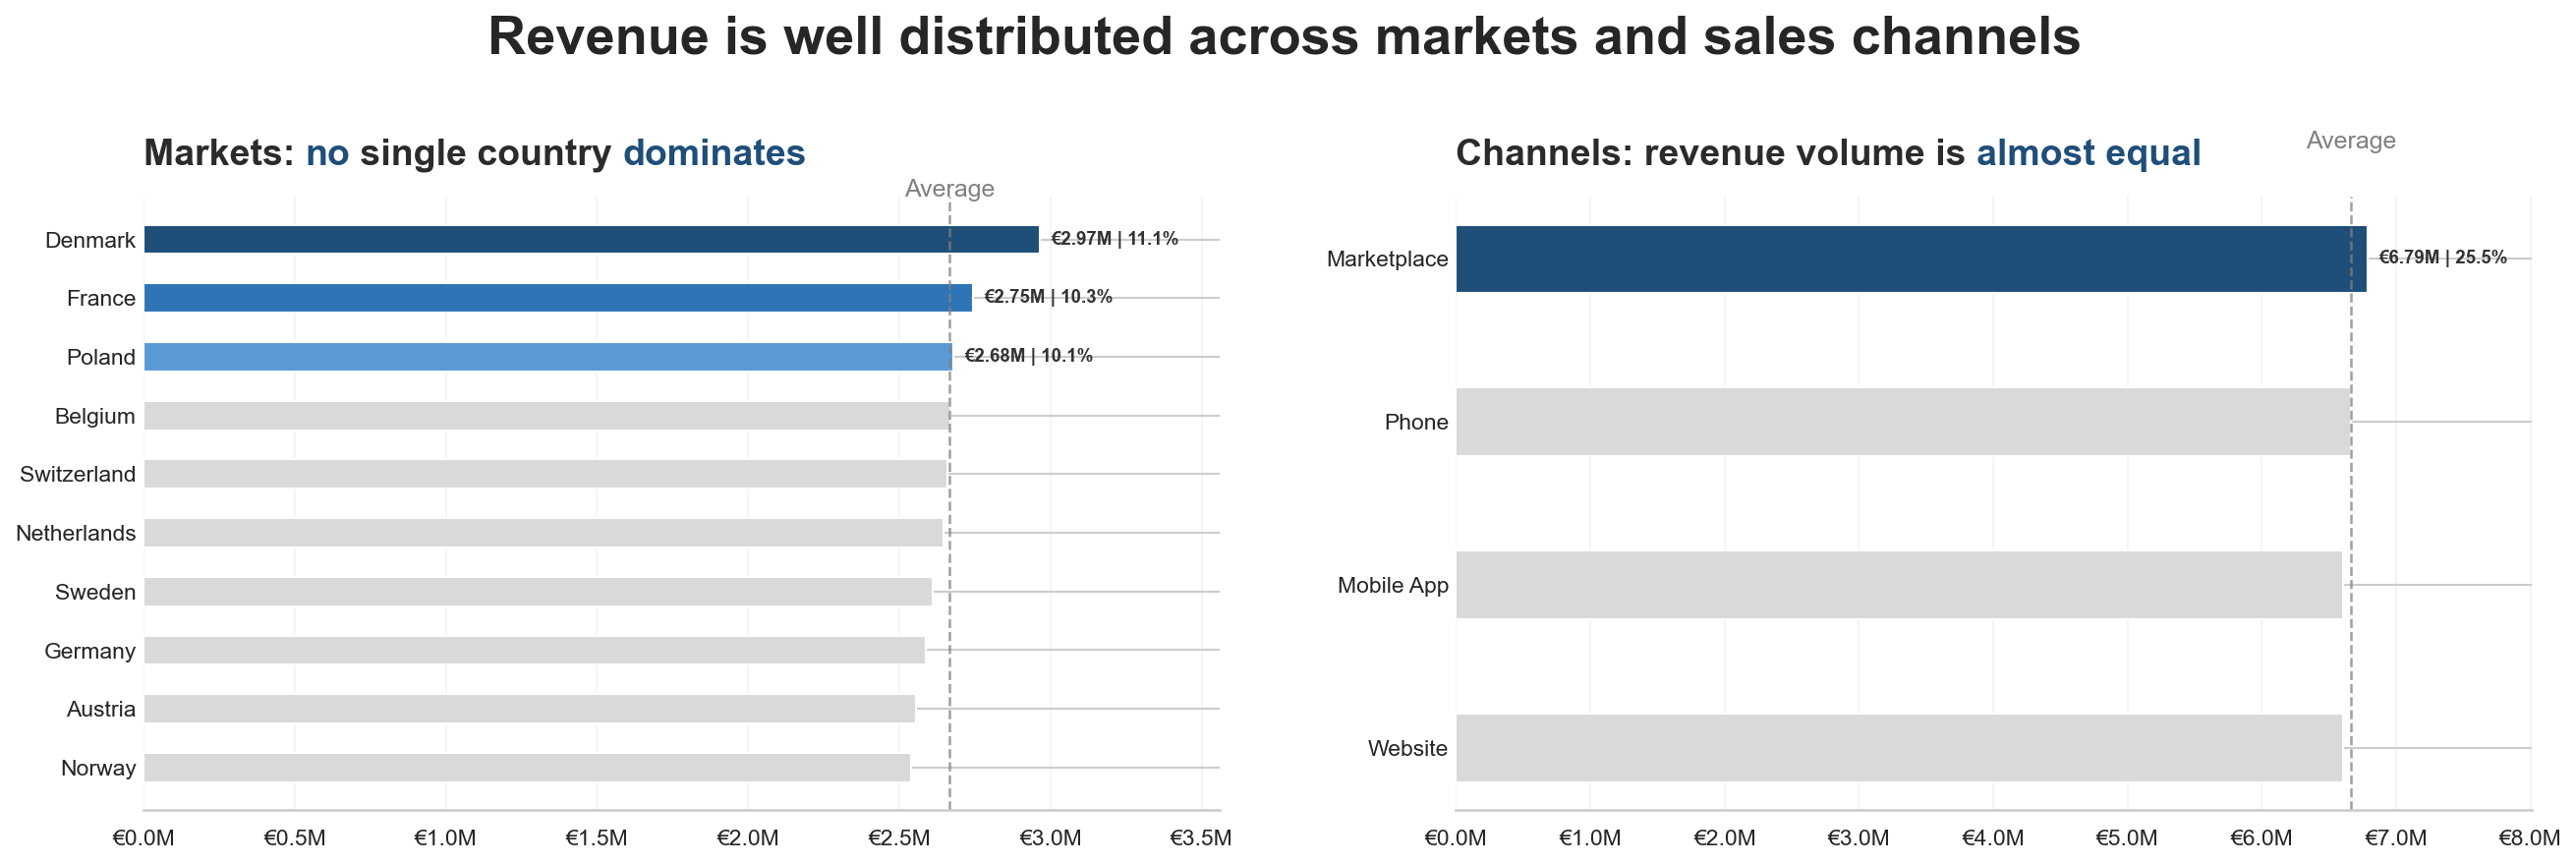
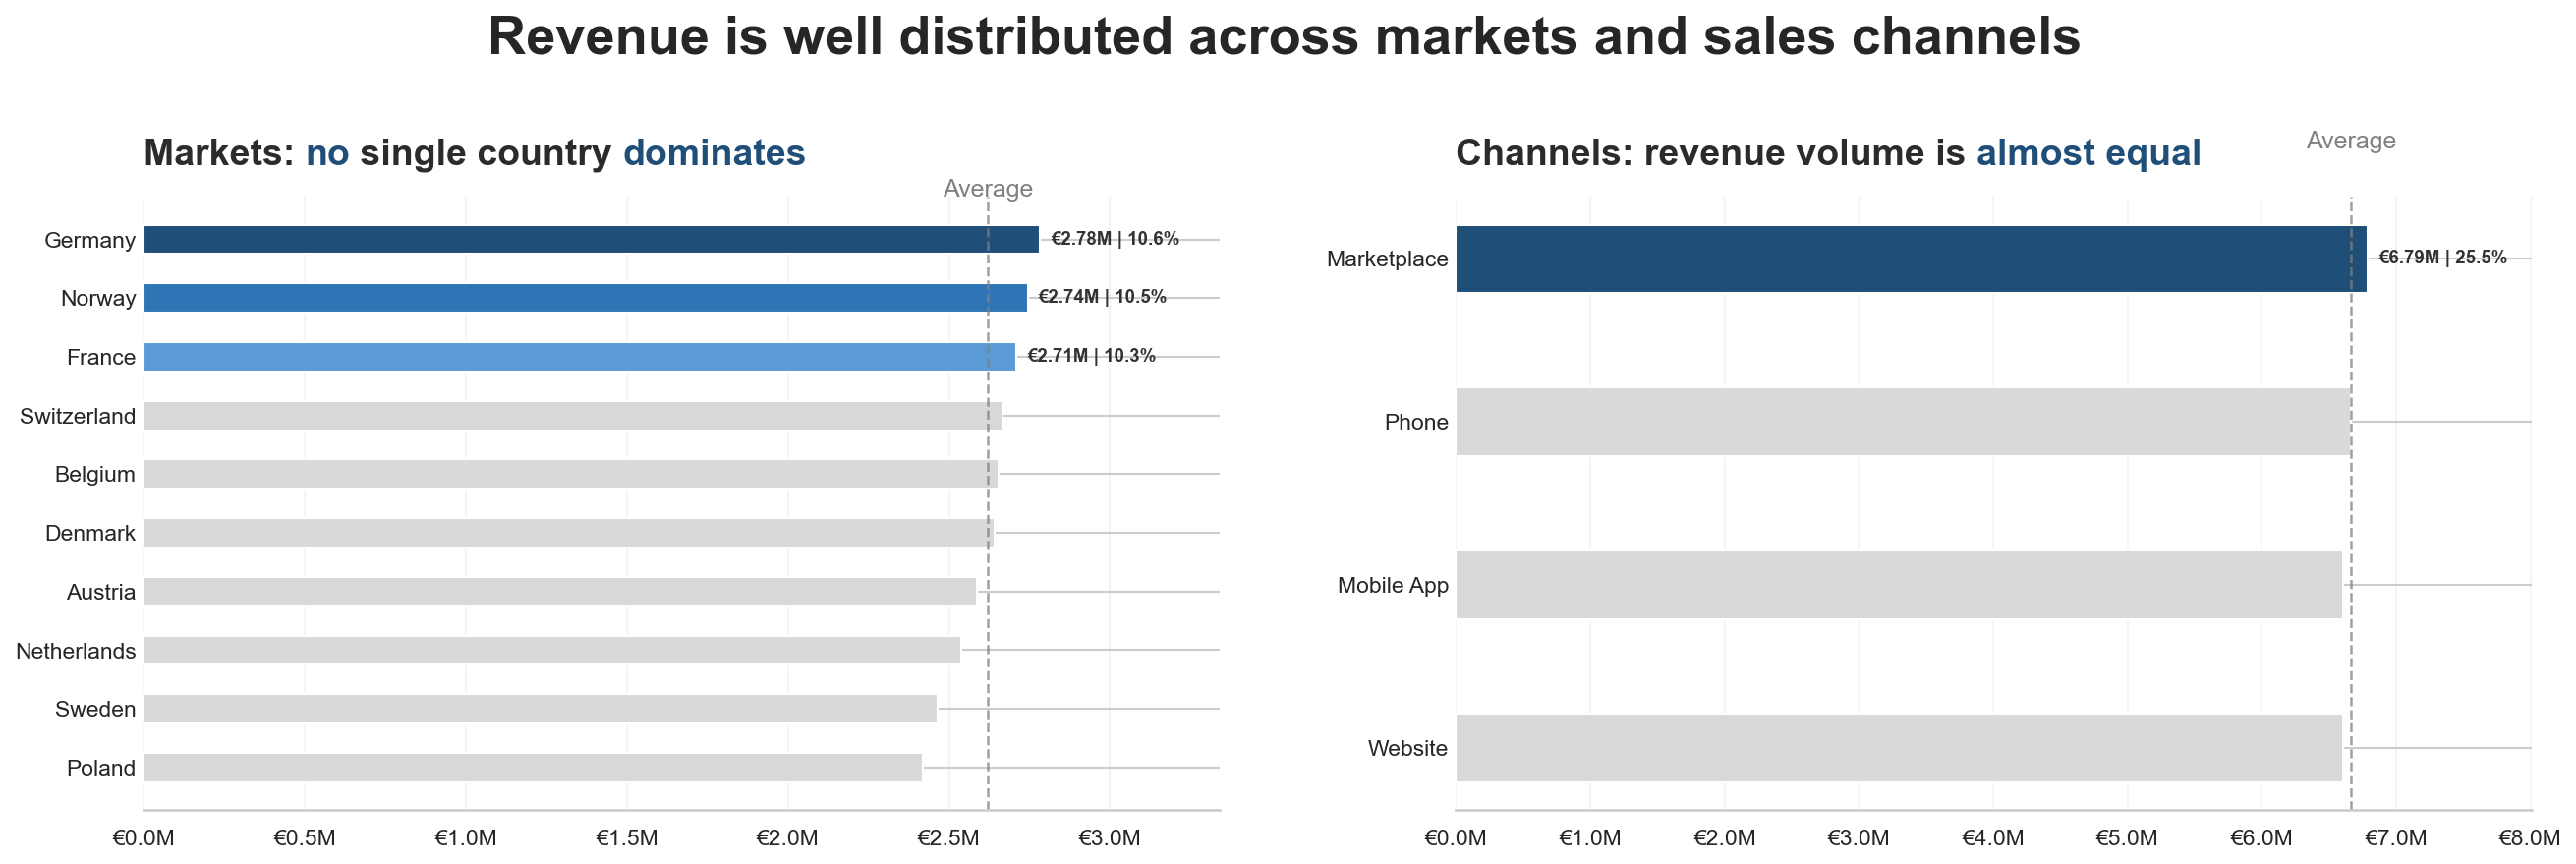
Remove random country field from fact tables, add Power BI export folder
country on fact_order_items/fact_payments/fact_returns was assigned
independently at random per order (89.9% mismatch against the ordering
customer's dim_customer.country; distinct-country-count per customer
matches the uniform-random-draw expectation almost exactly) and carried
no real geographic signal. Removed from all three fact tables and their
build scripts; dim_customer.country is now the only country field in
the model. Updated model_documentation.md, DATA_DICTIONARY.md,
MART_SCHEMA_REFERENCE.md, the Power BI export SQL, and the three
affected EDA notebook queries/insights to join dim_customer instead.

Also commits the Power BI export folder (export SQL + modelling
decisions doc) for the first time; generated CSVs stay gitignored.

diff --git a/powerbi/power_bi_modelling_decisions.md b/powerbi/power_bi_modelling_decisions.md
@@ -1,0 +1,142 @@
+# Power BI Modelling Decisions
+
+This file documents decisions made specifically while loading the `mart` tables into Power BI. These are Power BI-model-only decisions — the underlying Postgres `mart` schema is unaffected unless explicitly stated.
+
+For the source star schema design, see `03_data_modeling/model_documentation.md`. For column-level type reference, see `docs/MART_SCHEMA_REFERENCE.md`.
+
+---
+
+## Export note: boolean columns cast to true/false text
+
+### Decision
+`powerbi/export_mart_to_csv.sql` casts every `boolean` column (e.g. `ghost_product_flag`, `loyalty_member`, `is_weekend`) to the text values `'true'` / `'false'` instead of exporting them as-is.
+
+### Reason
+Postgres's `COPY ... CSV` writes booleans as `t` / `f`. Power BI's automatic type detection does not recognize `t`/`f` as Boolean and silently imports the column as Text instead, which breaks any visual or measure expecting a true Boolean field.
+
+### Business impact
+All flag columns import correctly as Boolean type in Power BI with no manual Power Query fixup needed per column, per table.
+
+### Trade-off or limitation
+If new boolean columns are added to any mart table in the future, `export_mart_to_csv.sql` must be updated to add the same `CASE WHEN ... THEN 'true' ELSE 'false' END` cast, or the new column will re-introduce the same t/f import issue.
+
+---
+
+## Modelling decision: dim_order excluded from export
+
+### Decision
+`mart.dim_order` (31,001 rows) is not exported to CSV and not part of the Power BI model.
+
+### Reason
+`dim_order` was removed from the star schema design (`model_documentation.md` §4.1) — order attributes were denormalized onto the fact tables instead. The table still physically exists in Postgres as a stale leftover from before that decision, has no build script in `03_data_modeling/`, and no fact table has a foreign key to it (confirmed via `information_schema.columns` on `fact_order_items`).
+
+### Business impact
+None — the table is unused. Order-level attributes (`order_status`, `country`, `sales_channel`, `shipping_method`) are already available directly on `fact_order_items`, `fact_payments`, and `fact_returns`.
+
+### Trade-off or limitation
+`mart.dim_order` still exists in Postgres, untouched. It was not dropped — only excluded from this export — since removing it from the database was out of scope for this decision.
+
+---
+
+## Modelling decision: created_at columns excluded (recommended)
+
+### Decision
+`created_at` audit timestamp columns (present on every mart table) should be excluded from the Power BI model or left unloaded.
+
+### Reason
+These are row-insert audit timestamps from the ETL process, not business dates. They carry no analytical value and add clutter to the field list.
+
+### Business impact
+None on any business question.
+
+### Trade-off or limitation
+If ETL/load-timing needs to be audited later, these columns are still present in the source CSVs and Postgres tables — they can be re-added at any time.
+
+---
+
+## Modelling decision: dim_customer data-quality flags excluded
+
+### Decision
+`missing_email_flag`, `missing_phone_flag`, and `missing_registration_date_flag` are excluded from the Power BI model.
+
+### Reason
+These are data-completeness indicators computed in staging, not business dimensions. None of the dashboard's business questions (revenue, AOV, segmentation, loyalty comparison) depend on them.
+
+### Business impact
+None on core business measures. A future "data completeness" reporting page would need these re-imported.
+
+### Trade-off or limitation
+Fully reversible — the columns remain in `mart.dim_customer` in Postgres and in `docs/DATA_DICTIONARY.md` / `docs/MART_SCHEMA_REFERENCE.md`. Only the Power BI model omits them.
+
+---
+
+## Modelling decision: canonical_customer_key and duplicate_customer_flag kept in Power BI model
+
+### Decision
+Both `canonical_customer_key` and `duplicate_customer_flag` are imported into the Power BI model, reversing an earlier decision to exclude them.
+
+### Reason
+Duplicate customer identities affect 148 people (296 rows, ~3.5% of the 8,365-row customer base), and 91% of those pairs (135/148) placed real orders under *both* customer keys (`model_documentation.md` §4.8). Excluding `canonical_customer_key` from the dashboard would have silently reintroduced the exact problem the mart-level fix was built to solve — any customer-count or CLV visual would look precise while actually running ~3.5% high, with no visible caveat. Chose accuracy and transparency over the smaller/simpler model.
+
+### Business impact
+Any measure that **counts or divides by number of customers** must group by `canonical_customer_key`, not `customer_key`:
+- `Number of Customers` / `Active Customers`
+- `Customers by Country` / `Customers by Segment` (loyalty, age group)
+- `Revenue per Customer` / CLV-style measures
+- `Repeat Purchase Rate`
+
+Measures that only sum revenue, orders, or events — `AOV`, `Net Revenue`, `Gross Revenue`, `Return Rate`, `Revenue by Country/Channel/Loyalty Segment` — are unaffected either way, since customer identity never enters those calculations.
+
+### Trade-off or limitation
+None functionally — this restores full consistency with the documented SQL-level fix. The only cost is one extra join key to remember when building customer-count measures (mitigated by naming those DAX measures clearly, e.g. `Distinct Customers (Deduped)`, so nobody reverts to `customer_key` by habit).
+
+---
+
+## Modelling decision: dim_product columns excluded from Power BI model
+
+### Decision
+`launch_date`, `list_price`, `price_issue_flag`, `product_quality_status`, and `created_at` are excluded from the Power BI model. `product_key`, `product_id`, `product_name`, `category`, `subcategory`, `brand`, `unit_cost`, and `discontinued_flag` are kept.
+
+### Reason
+- `launch_date` — not tied to any of the four documented product business questions (`model_documentation.md` §7) unless doing product-lifecycle analysis, which isn't in scope for this dashboard.
+- `price_issue_flag`, `product_quality_status` — data-quality indicators, not business dimensions. `product_quality_status` is derived from the same ghost-detection logic already exposed as `ghost_product_flag` on `fact_order_items`/`fact_returns` (confirmed in `dim_product.sql`), so it's redundant for revenue-exclusion purposes on the main dashboard.
+- `created_at` — audit-only, same rule applied to every table in this model.
+- `list_price` — initially kept, then reversed to excluded. See reasoning below; this is a case where "reversible so why not keep it" was the wrong instinct.
+
+### Business impact
+`category`, `subcategory`, `brand`, `unit_cost`, and `discontinued_flag` support the core product business questions (revenue by category, margin, active vs. discontinued catalog). None of them depend on `list_price`.
+
+### Trade-off or limitation
+**Why `list_price` was excluded, not just cautioned about:** per `docs/business_rules/BUSINESS_METADATA.md`, `list_price` and `unit_price` were rigorously tested and show **effectively zero correlation** across 74,783 matched order lines (r ≈ -0.001), with differences up to +3,000% — far beyond anything a VAT rate, discount, or consistent markup could explain. The two fields are statistically independent in this dataset.
+
+The deciding factor over simply keeping-with-a-warning: `list_price` sits directly next to `unit_price` in the Fields pane, and the failure mode of misusing it is silent — a "% discount from list" or margin chart built on it would look completely normal while actually visualizing noise from the data generation process, not a real business pattern. That risk was judged to outweigh the narrow legitimate uses (plain catalog display, an explicitly-labeled hypothetical "catalog margin," or a scatter plot surfacing the zero-correlation finding itself as a documented data-quality observation) — none of which were concretely planned for this dashboard.
+
+Fully reversible: the column remains in `mart.dim_product` in Postgres and in `docs/business_rules/BUSINESS_METADATA.md`. Re-import it only if one of the three narrow legitimate uses above becomes a concrete, deliberate deliverable — not as a default "might as well" inclusion.
+
+Any margin measure must use `unit_price − unit_cost`, never `list_price − unit_cost`.
+
+Also worth remembering: the `product_key = -1` unknown-product fallback row has `price_issue_flag = TRUE` hardcoded in `dim_product.sql` — not a real flagged product, just the fallback row's default. Since `price_issue_flag` is excluded from this model, this doesn't surface as an issue here, but is worth knowing if the column is ever re-imported.
+
+---
+
+## Modelling decision: fact_marketing_touchpoints columns
+
+### Decision
+
+| Column | Recommendation | Why |
+|---|---|---|
+| `customer_key`, `campaign_key`, `campaign_date_key` | Keep | Relationship keys — needed for every marketing business question (clicks/conversions by campaign, channel, over time) |
+| `clicked`, `converted` | Keep | The core measures — CTR and conversion rate are built directly from these |
+| `ghost_customer_flag` | Exclude | Checked live: 0 of 12,000 rows are flagged — no ghost customers currently present, so the column adds no value |
+| `converted_without_click_flag` | Exclude | Checked live: 0 of 12,000 rows are flagged — this data-quality issue doesn't occur in this dataset, so the column adds no value |
+| `fact_touchpoint_key`, `marketing_touchpoint_id` | Keep, hidden from report view | PK and degenerate ID — needed for uniqueness/drill-through, never dragged into a visual directly |
+| `created_at` | Exclude | Audit-only, same rule as every other table |
+
+### Reason
+Both flags were checked against the live data before deciding, rather than excluded on principle — see limitation below.
+
+### Business impact
+Supports all three documented marketing business questions (`model_documentation.md` §7): clicks/conversions by campaign, conversion rate by channel, and (via `customer_key`) cross-fact attribution of revenue to customers who converted on a campaign (§6).
+
+### Trade-off or limitation
+Checked live (2026-07-15): 0 of 12,000 rows have `ghost_customer_flag = true`, and 0 rows have `converted_without_click_flag = true` (confirmed independently against the raw condition `converted = 1 AND clicked = 0`). Both are exclusions of convenience, not principle — if the source data is ever regenerated or refreshed, re-check both counts before assuming it's still safe to leave them out.

diff --git a/03_data_modeling/model_documentation.md b/03_data_modeling/model_documentation.md
@@ -24,20 +24,22 @@ All 4 fact tables share `dim_customer` and `dim_date` as conformed dimensions.
                              dim_date
                                 ↑
 dim_customer ←── fact_order_items ──────────────────→ dim_product
-                 (order_status, country,
+                 (order_status,
                   sales_channel, shipping_method
                   denormalized on fact)
 
 dim_customer ←── fact_payments ─────────────────────→ dim_payment
-                 (order_status, country,
+                 (order_status,
                   sales_channel denormalized on fact)
 
 dim_customer ←── fact_returns ──────────────────────→ dim_product
-                 (order_status, country,              → dim_return_reason
+                 (order_status,                        → dim_return_reason
                   sales_channel denormalized on fact)
 
 dim_customer ←── fact_marketing_touchpoints ─────────→ dim_marketing_campaigns
 ```
+
+`country` lives only on `dim_customer` — not denormalized onto any fact table. See §4.1.
 
 ### 2.1 Build Order
 
@@ -76,9 +78,17 @@ A `dim_order` table was considered but removed during modelling review.
 
 In a Kimball star schema, orders are facts (they carry measures: revenue, quantity), not dimensions. Storing them as a separate dimension creates an unnecessary outrigger join on every query.
 
-Instead, order-level descriptive attributes — `order_status`, `country`, `sales_channel`, `shipping_method` — are denormalized directly onto `fact_order_items`, `fact_payments`, and `fact_returns`. These attributes have the same value for every row that belongs to the same order, so denormalization adds no redundancy risk.
+Instead, order-level descriptive attributes — `order_status`, `sales_channel`, `shipping_method` — are denormalized directly onto `fact_order_items`, `fact_payments`, and `fact_returns`. These attributes have the same value for every row that belongs to the same order, so denormalization adds no redundancy risk.
 
 `order_id` is retained as a degenerate dimension on each fact table for direct lookup and cross-fact joining without needing a separate table.
+
+**Trade-off / limitation:** Order-level attributes (order_status, sales_channel, shipping_method) are denormalized as of order creation. If order_status ever needed to be tracked as it changes over time (pending → shipped → delivered), this design would not capture that history — the fact row holds only the current value. This is acceptable for the current dataset, which does not model status transitions, but would need revisiting if status history became a business question.
+
+**`country` deliberately excluded (2026-07-17):** `raw_orders.country` was initially denormalized onto the fact tables alongside the other order-level attributes, same as `order_status` and `sales_channel`. Investigation prompted by a modelling review found it does not behave like a real order attribute: comparing `raw_orders.country` to the ordering customer's `raw_customers.country` (via `stg_orders.customer_id`) shows an 89.9% mismatch rate, and the number of distinct countries appearing across a single customer's orders matches — almost to the decimal — the expected value for drawing uniformly at random from 10 categories with replacement (e.g. a customer with 6 orders averages 4.68 distinct countries, versus a formula-predicted 4.69). This is conclusive evidence the value is assigned independently at random per order, not sourced from any real shipping/billing address logic.
+
+**Decision:** `country` is not carried onto any fact table. `dim_customer.country` is the only country field in the model. Any country-based analysis (revenue by country, return rate by country, etc.) must join to `dim_customer` via `customer_key`. Fact-table `country` was removed from `fact_order_items`, `fact_payments`, and `fact_returns` on 2026-07-17 — see the header comment in each `.sql` file in `03_data_modeling/02_fact_tables/` for the same rationale.
+
+**Limitation carried forward:** `dim_customer.country` is itself one random draw per customer at data-generation time (see §4.7-adjacent EDA notes on balanced demographic distributions) — it is stable and safe to use as a segmentation key, but should not be over-interpreted as reflecting real customer geography either.
 
 ### 4.2 Payment split — dim_payment and fact_payments
 
@@ -238,7 +248,6 @@ If one order contains three products, the fact table contains three rows for tha
 | `product_key` | INT | FK → dim_product |
 | `order_date_key` | INT | FK → dim_date |
 | `order_status` | TEXT | Denormalized from stg_orders |
-| `country` | TEXT | Denormalized from stg_orders |
 | `sales_channel` | TEXT | Denormalized from stg_orders |
 | `shipping_method` | TEXT | Denormalized from stg_orders |
 | `quantity` | INT | Measure |
@@ -266,7 +275,6 @@ If one order contains three products, the fact table contains three rows for tha
 | `payment_key` | INT | FK → dim_payment |
 | `payment_date_key` | INT | FK → dim_date |
 | `order_status` | TEXT | Denormalized from stg_orders |
-| `country` | TEXT | Denormalized from stg_orders |
 | `sales_channel` | TEXT | Denormalized from stg_orders |
 | `payment_amount` | NUMERIC(12,2) | Measure |
 | `ghost_order_flag` | BOOLEAN | Payment references an order not in raw_orders |
@@ -291,7 +299,6 @@ If one order contains three products, the fact table contains three rows for tha
 | `return_reason_key` | INT | FK → dim_return_reason (nullable) |
 | `return_date_key` | INT | FK → dim_date |
 | `order_status` | TEXT | Denormalized from stg_orders |
-| `country` | TEXT | Denormalized from stg_orders |
 | `sales_channel` | TEXT | Denormalized from stg_orders |
 | `refund_amount` | NUMERIC(12,2) | Measure — ABS-corrected value from staging |
 | `ghost_product_flag` | BOOLEAN | Product ID is a ghost record |
@@ -425,6 +432,7 @@ GROUP BY dc.customer_id;
 | `birth_year < 1900` | Bucketed as Unknown — catches 1800/1890 placeholder values from source data |
 | `order_id` on fact tables | Degenerate dimension — enables cross-fact joins without dim_order |
 | Duplicate customer identity (2026-07-03) | Added `duplicate_customer_flag` + `canonical_customer_key` to dim_customer — additive only, no rows merged or deleted |
+| `country` on fact tables (2026-07-17) | Removed from `fact_order_items`, `fact_payments`, `fact_returns` — proven to be assigned independently at random per order, not real order geography. `dim_customer.country` is now the only country field in the model |
 
 ---
 

diff --git a/04_EDA/insights.md b/04_EDA/insights.md
@@ -22,7 +22,7 @@ Key findings from `nordhome_eda.ipynb`. Fill in after running the notebook.
 
 ### Q2: Which countries and sales channels generate the most revenue?
 
-**Insight:** No single country dominates. The top three markets are Denmark (€2.97M, 11.1%), France (€2.75M, 10.3%), and Poland (€2.68M, 10.1%), with the remaining countries spread evenly below. Sales channels are nearly identical in volume: Marketplace 25.5%, Phone 25.0%, Mobile App 24.8%, Website 24.8%. Revenue is structurally well distributed across both dimensions.
+**Insight:** No single country dominates. The top three markets are Germany (€2.78M, 10.6%), Norway (€2.74M, 10.5%), and France (€2.71M, 10.3%), with the remaining countries spread evenly down to Poland (€2.42M, 9.2%) — a 1.4 percentage-point spread across all ten. Sales channels are nearly identical in volume: Marketplace 25.5%, Phone 25.0%, Mobile App 24.8%, Website 24.8%. Revenue is structurally well distributed across both dimensions.
 
 **Chart:** ![Revenue by country and sales channel](figures/country.png)
 
@@ -301,19 +301,19 @@ Benchmarked externally, NordHome's H1 2024 item return rate (9.74%) sits slightl
 
 **Insight:** No single channel or country drives high returns on its own; the highest rates only show up when you cross the two dimensions, and even then the spread stays fairly narrow.
 
-**Evidence:** Across all 40 channel × country combinations, order-level return rate ranges from 17.0% to 22.0% (average 19.3%). The two highest cells are Phone orders in Switzerland (22.0%, 164 of 744 orders) and Website orders in Germany (22.0%, 171 of 778 orders) — each sits only ~2.7 percentage points above the overall average, and each is based on roughly 750–780 orders per cell.
+**Evidence:** Across all 40 channel × country combinations, order-level return rate ranges from 16.0% to 22.8% (average 19.0%). The two highest cells are Marketplace orders in the Netherlands (22.8%, 170 of 745 orders) and Marketplace orders in Denmark (21.9%, 173 of 791 orders) — 3.8 and 2.9 percentage points above the overall average respectively, each based on roughly 750–790 orders. The lowest cell is Marketplace orders in Switzerland (16.0%, 137 of 857 orders).
 
 **Chart:** ![Order return rate heatmap by channel and country](figures/order_return_rate_heatmap.png)
 
-**Business interpretation:** This confirms and sharpens the Q3 finding — return rate isn't explained by channel alone or country alone, but crossing them does reveal two mildly elevated cells (Phone × Switzerland, Website × Germany). A 5-percentage-point range across 40 combinations, each with several hundred orders, is a modest spread — worth a note, not yet a strong enough signal to justify channel- or country-specific return policy changes on its own.
+**Business interpretation:** This confirms and sharpens the Q3 finding — return rate isn't explained by channel alone or country alone, but crossing them does reveal a couple of mildly elevated cells (Marketplace × Netherlands, Marketplace × Denmark). A roughly 6.8-percentage-point range across 40 combinations, each with several hundred orders, is a modest spread — worth a note, not yet a strong enough signal to justify channel- or country-specific return policy changes on its own.
 
-**Further investigation:** Check whether Phone × Switzerland and Website × Germany stay elevated when re-cut by return reason or product category — if the elevated cells are driven by the same "Customer preference" pattern seen in Q1, that's a weaker, less actionable signal than if a specific operational reason (delivery, fulfillment) concentrates there.
+**Further investigation:** Check whether Marketplace × Netherlands and Marketplace × Denmark stay elevated when re-cut by return reason or product category — if the elevated cells are driven by the same "Customer preference" pattern seen in Q1, that's a weaker, less actionable signal than if a specific operational reason (delivery, fulfillment) concentrates there.
 
-**Limitation:** With ~40 combinations and roughly 700–800 orders each, the two highest cells could plausibly reflect sampling noise rather than a genuine channel-country effect — a formal significance check (e.g. comparing each cell's return rate against the overall average with a proportion test) would be needed before treating this as a real pattern rather than normal variation.
+**Limitation:** With ~40 combinations and roughly 700–860 orders each, the two highest cells could plausibly reflect sampling noise rather than a genuine channel-country effect — a formal significance check (e.g. comparing each cell's return rate against the overall average with a proportion test) would be needed before treating this as a real pattern rather than normal variation.
 
 ---
 
-**Section summary:** Return rates held steady for three years (2021–2023: ~8.2–8.7% of items, ~3.5–3.7% of revenue) before rising in H1 2024 (9.74% items, 4.02% revenue) — a real shift, though still within external benchmark ranges. Neither category, channel, nor country explains the pattern on its own: return volume is nearly flat across product categories (Q1), return rate is nearly flat across sales channels (19.1–19.8%) and countries (18.6–20.4%) (Q3), and even crossing channel with country only turns up a modest 17.0–22.0% range (Q4). The one dimension that does differentiate clearly is return *reason* — "Customer preference" accounts for far more returns than any operational cause (Q1), consistent with Kitchen's already-elevated item return rate from the Products section. Together, this points the 2024 investigation toward product-level and reason-level drivers — product descriptions, imagery, expectation-setting — rather than channel, country, or geography.
+**Section summary:** Return rates held steady for three years (2021–2023: ~8.2–8.7% of items, ~3.5–3.7% of revenue) before rising in H1 2024 (9.74% items, 4.02% revenue) — a real shift, though still within external benchmark ranges. Neither category, channel, nor country explains the pattern on its own: return volume is nearly flat across product categories (Q1), return rate is nearly flat across sales channels (19.1–19.8%) and countries (18.0–20.2%) (Q3), and even crossing channel with country only turns up a modest 16.0–22.8% range (Q4). The one dimension that does differentiate clearly is return *reason* — "Customer preference" accounts for far more returns than any operational cause (Q1), consistent with Kitchen's already-elevated item return rate from the Products section. Together, this points the 2024 investigation toward product-level and reason-level drivers — product descriptions, imagery, expectation-setting — rather than channel, country, or geography.
 
 ---
 

diff --git a/docs/MART_SCHEMA_REFERENCE.md b/docs/MART_SCHEMA_REFERENCE.md
@@ -146,7 +146,6 @@ No unknown-fallback row needed — every reason is mapped inline (blank/NULL →
 | `product_key` | integer | FK → `dim_product` |
 | `order_date_key` | integer | FK → `dim_date` |
 | `order_status` | text | denormalized from order |
-| `country` | text | denormalized from order |
 | `sales_channel` | text | denormalized from order |
 | `shipping_method` | text | denormalized from order |
 | `quantity` | integer | measure |
@@ -157,6 +156,8 @@ No unknown-fallback row needed — every reason is mapped inline (blank/NULL →
 | `zero_unit_price_flag` | boolean | |
 | `line_total_mismatch_flag` | boolean | |
 | `created_at` | timestamp | |
+
+⚠️ **No `country` column** — `raw_orders.country` is assigned independently at random per order (89.9% mismatch against the same customer's `dim_customer.country`; distinct-country-count per customer matches the uniform-random-draw expectation exactly). Removed 2026-07-17. Use `dim_customer.country` (join on `customer_key`) for any country-based analysis — same caveat applies to `fact_payments` and `fact_returns` below.
 
 ---
 
@@ -172,7 +173,6 @@ No unknown-fallback row needed — every reason is mapped inline (blank/NULL →
 | `return_reason_key` | integer | FK → `dim_return_reason` (nullable) |
 | `return_date_key` | integer | FK → `dim_date` |
 | `order_status` | text | denormalized — may not match `fact_order_items.order_status` for the same `order_id` |
-| `country` | text | denormalized |
 | `sales_channel` | text | denormalized |
 | `refund_amount` | numeric | measure — use for Cash-Based Net Revenue |
 | `ghost_product_flag` | boolean | ~30% of rows — exclude for product-level attribution, keep for company-wide totals |
@@ -194,7 +194,6 @@ No unknown-fallback row needed — every reason is mapped inline (blank/NULL →
 | `payment_key` | integer | FK → `dim_payment` |
 | `payment_date_key` | integer | FK → `dim_date` |
 | `order_status` | text | denormalized |
-| `country` | text | denormalized |
 | `sales_channel` | text | denormalized |
 | `payment_amount` | numeric | measure |
 | `ghost_order_flag` | boolean | |

diff --git a/docs/DATA_DICTIONARY.md b/docs/DATA_DICTIONARY.md
@@ -53,7 +53,7 @@ One row per order placed. An order may contain multiple items (`raw_order_items`
 | `customer_id` | STRING | FK → `raw_customers.customer_id` | ~0.8 % reference non-existent customers |
 | `order_date` | DATE | Date order was placed | Mixed formats |
 | `order_status` | STRING | `Completed`, `Shipped`, `Processing`, `Cancelled`, `Returned`, `Refunded` | May mismatch payment_status |
-| `country` | STRING | Country where order was shipped | Clean (uses canonical country names) |
+| `country` | STRING | Nominally "country where order was shipped," but values are assigned independently at random per order — 89.9% mismatch against the same customer's `raw_customers.country`, with distinct-country-count per customer matching the uniform-random-draw expectation exactly. Formatting is clean (canonical country names); the values themselves carry no real geographic signal. Excluded from `mart` fact tables as of 2026-07-17 — see `model_documentation.md` §4.1. | Clean formatting, but not a trustworthy business field |
 | `sales_channel` | STRING | `Website`, `Mobile App`, `Marketplace`, `Phone` | Clean |
 | `shipping_method` | STRING | `Standard`, `Express`, `Next Day`, `Click & Collect`, `Free Shipping` | Clean |
 